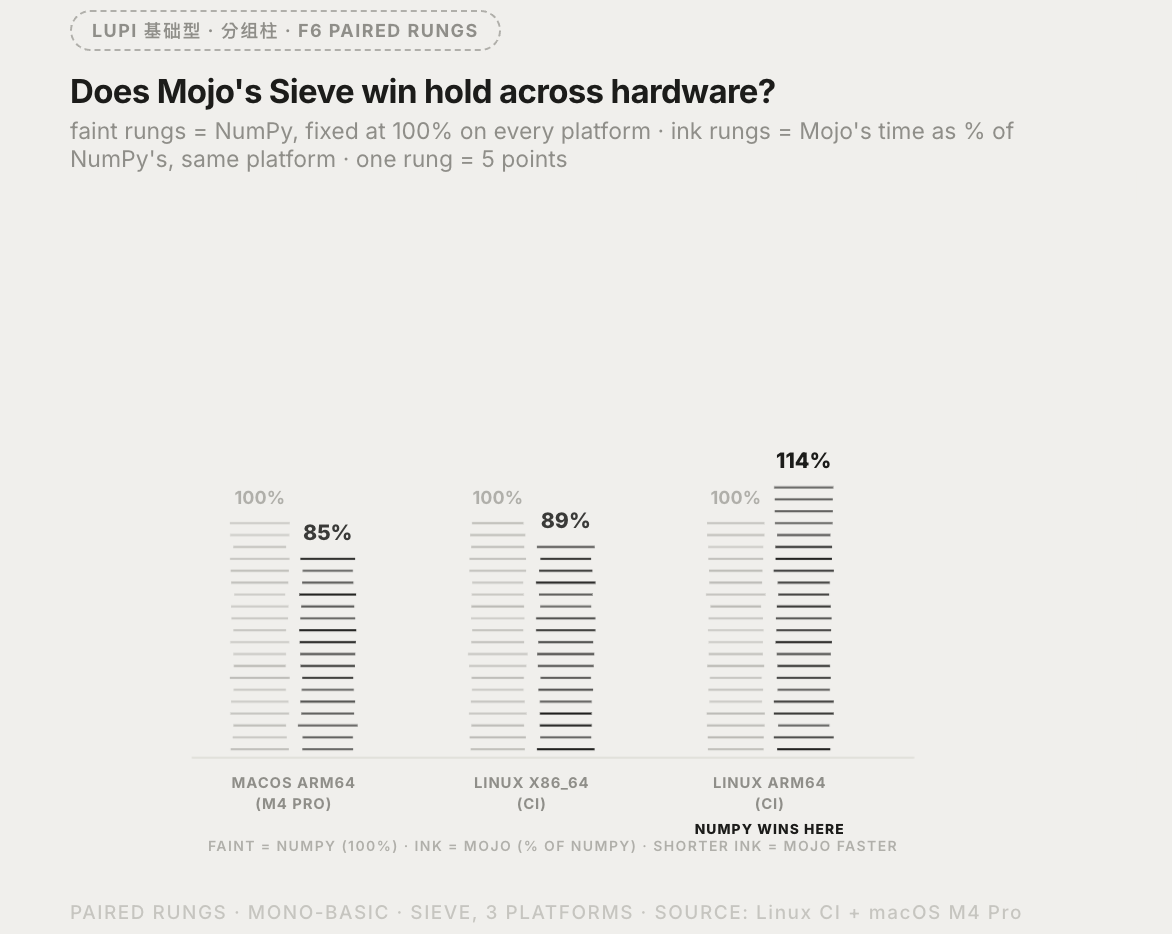
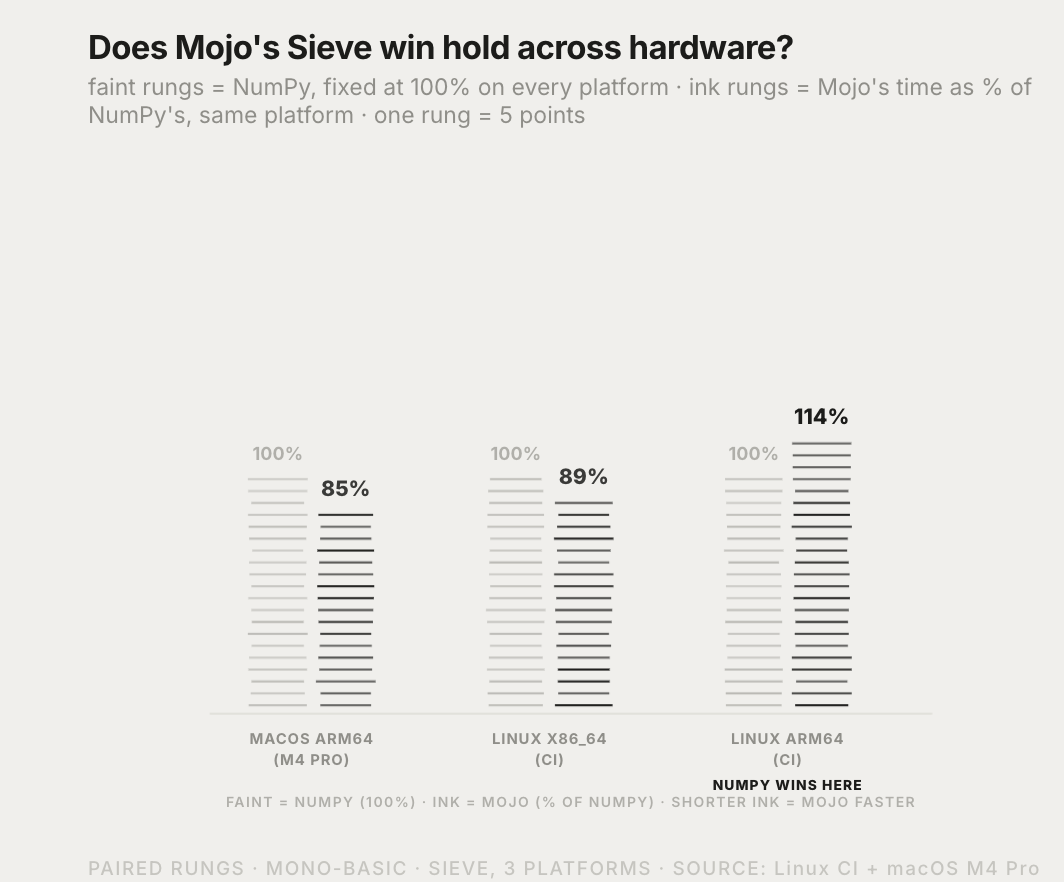
Remove Chinese template-provenance badges from the narrative charts
The "LUPI 基础型 · ... · FNN NAME" badge was Lieflat Charts' own internal
template-audit label, not something an external README reader needs.
Removed from all three cards for consistency and re-captured the PNGs.

Claude-Session: https://claude.ai/code/session_01QDpFxeAGxk1rVkmDj4ry16

diff --git a/results/lieflat/charts.html b/results/lieflat/charts.html
@@ -40,7 +40,6 @@
 
   <!-- Dumbbell Queue -->
   <div class="card wide">
-    <span class="badge">LUPI 基础型 · 哑铃对比 · F12 DUMBBELL QUEUE</span>
     <h2>Three losing Mojo attempts, and the rewrite that fixed each one</h2>
     <div class="sub">hollow dot = 1.0× (the original attempt, always the baseline) · ink dot = the speedup the rewrite achieved · one bead ≈ 1× faster, log-scaled position</div>
     <svg id="dumbbell" viewBox="0 0 760 268" preserveAspectRatio="xMidYMid meet"></svg>
@@ -49,7 +48,6 @@
 
   <!-- Paired Rungs -->
   <div class="card">
-    <span class="badge">LUPI 基础型 · 分组柱 · F6 PAIRED RUNGS</span>
     <h2>Does Mojo's Sieve win hold across hardware?</h2>
     <div class="sub">faint rungs = NumPy, fixed at 100% on every platform · ink rungs = Mojo's time as % of NumPy's, same platform · one rung = 5 points</div>
     <svg id="pairrungs" viewBox="0 0 400 320" preserveAspectRatio="xMidYMid meet"></svg>
@@ -58,7 +56,6 @@
 
   <!-- Tick Rows -->
   <div class="card">
-    <span class="badge">LUPI 基础型 · 横向条形 · F5 TICK ROWS</span>
     <h2>Who leads each category, and by how much</h2>
     <div class="sub">one tick = 0.1× lead over the runner-up · label names the leader, not always Mojo</div>
     <svg id="tickrows" viewBox="0 0 400 320" preserveAspectRatio="xMidYMid meet"></svg>
